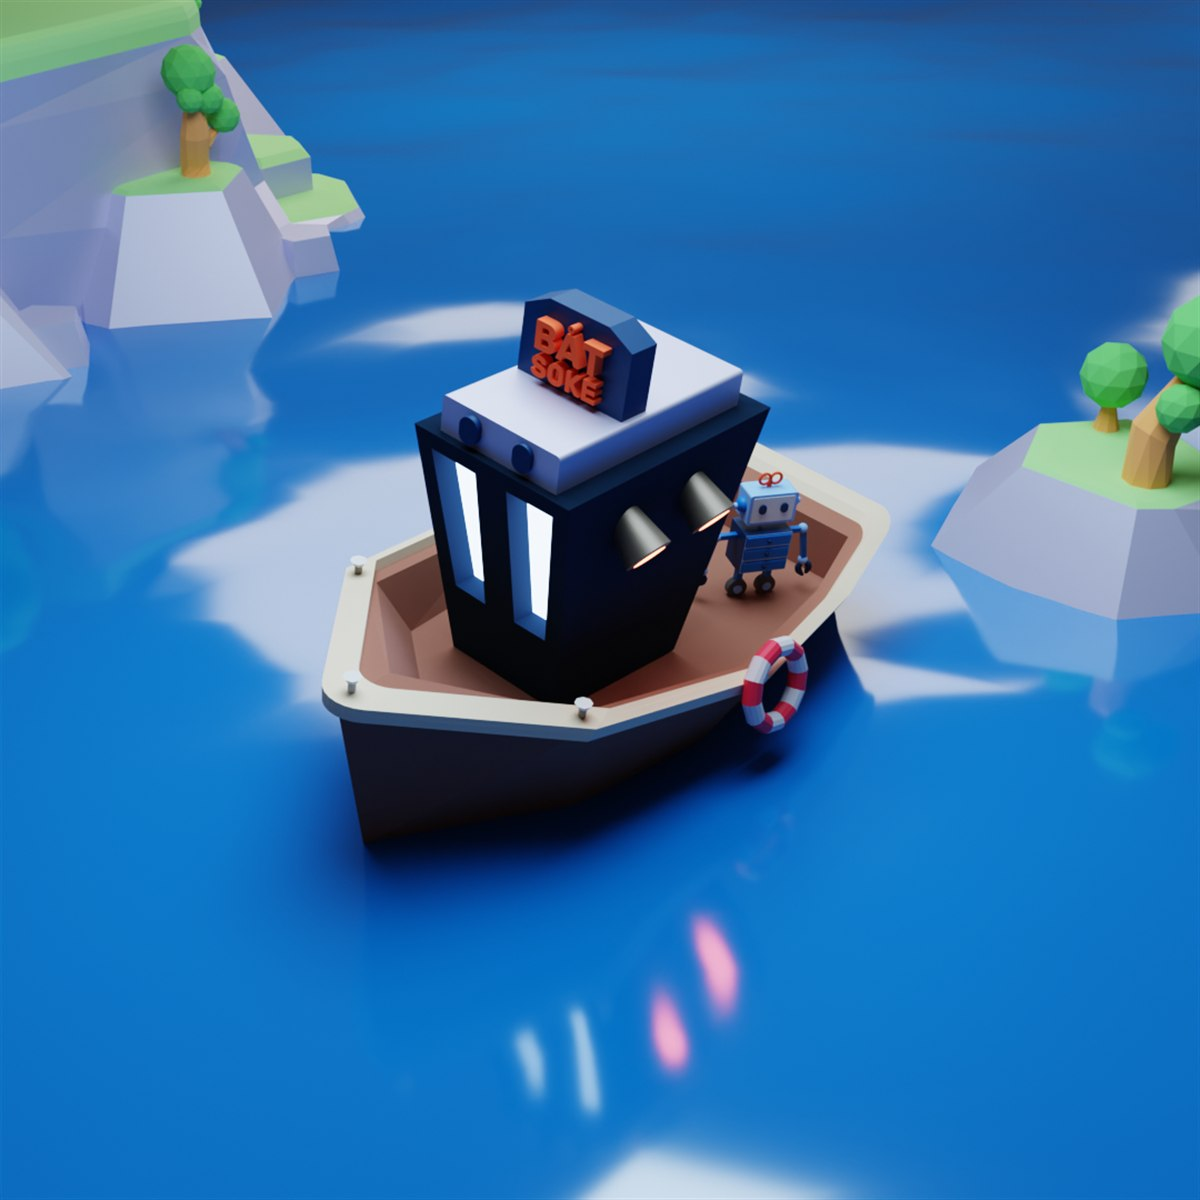
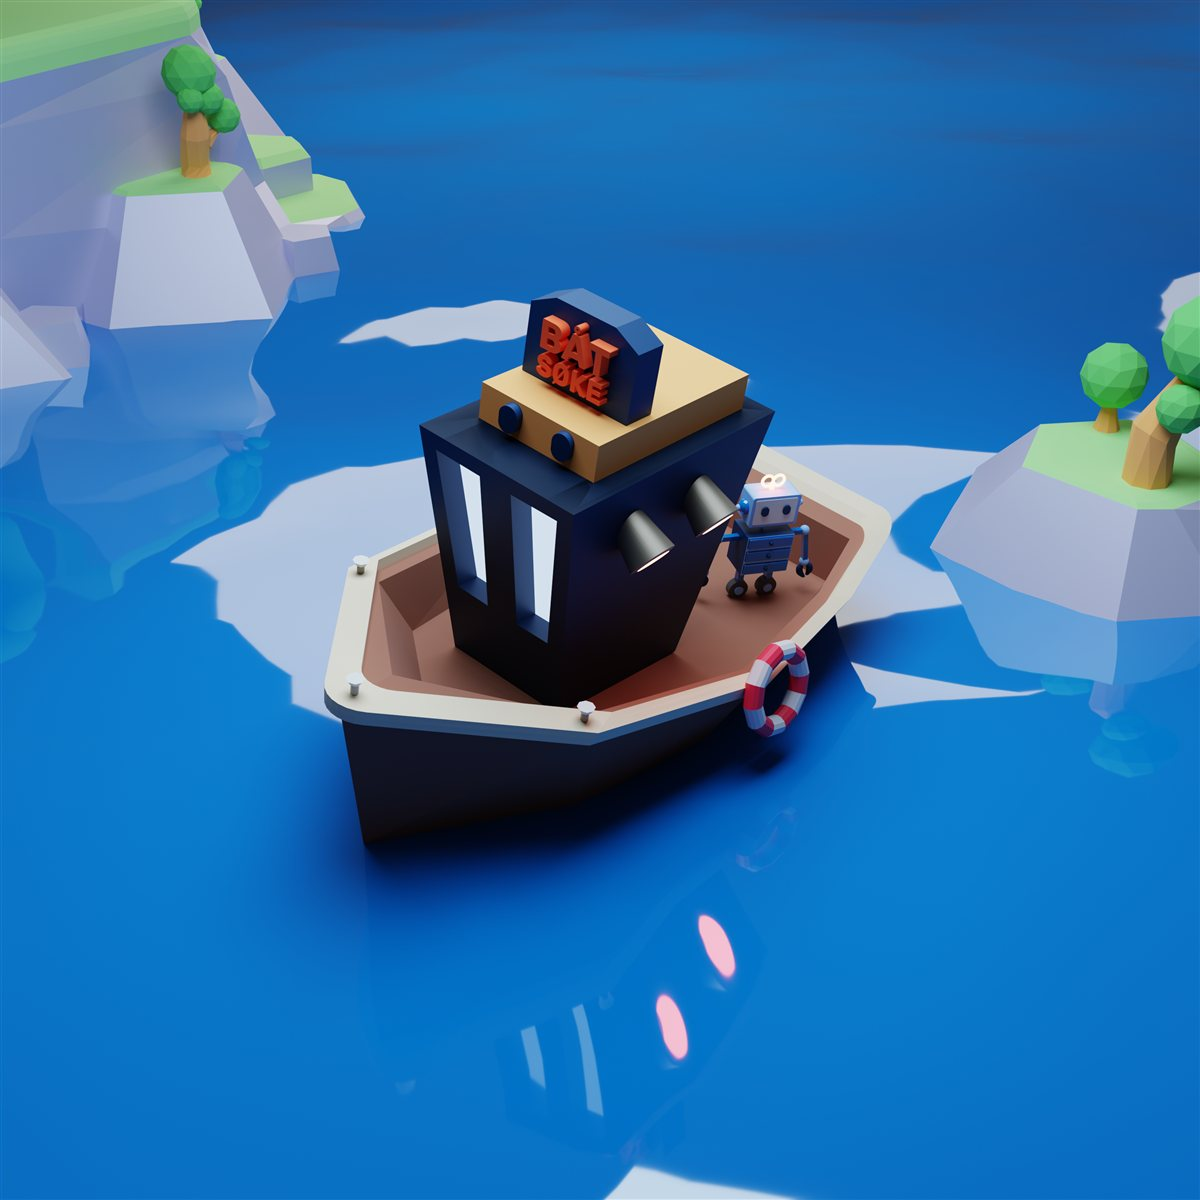
Boat Soke: sharper 2000px cover from the new 3000px render

diff --git a/index.html b/index.html
@@ -235,7 +235,7 @@
         <div class="grid sm:grid-cols-2 md:grid-cols-3 gap-8 md:gap-10">
           <a href="work-bat-soke" class="work-card group reveal">
             <div class="work-img-wrap relative rounded-2xl shadow-forest">
-              <img src="assets/bat-soke/bat-soke-cover.webp" alt="A low-poly 3D scene of a small boat on blue water, the 1881 search character standing on deck and a B&aring;t S&oslash;ke sign on the wheelhouse, with tree-topped islands behind" width="1080" height="1080" loading="lazy" decoding="async" class="w-full rounded-2xl" />
+              <img src="assets/bat-soke/bat-soke-cover.webp" alt="A low-poly 3D scene of a small boat on blue water, the 1881 search character standing on deck and a B&aring;t S&oslash;ke sign on the wheelhouse, with tree-topped islands behind" width="2000" height="2000" loading="lazy" decoding="async" class="w-full rounded-2xl" />
             </div>
             <div class="mt-5">
               <p class="eyebrow text-forest-deep/50">3D &middot; 2026</p>

diff --git a/work.html b/work.html
@@ -185,7 +185,7 @@
         <!-- mini 1 -->
         <a href="work-bat-soke" class="work-card group reveal">
           <div class="work-img-wrap relative rounded-2xl shadow-forest">
-            <img src="assets/bat-soke/bat-soke-cover.webp" alt="A low-poly 3D scene of a small boat on blue water, the 1881 search character standing on deck and a B&aring;t S&oslash;ke sign on the wheelhouse, with tree-topped islands behind" width="1080" height="1080" loading="lazy" decoding="async" class="w-full rounded-2xl" />
+            <img src="assets/bat-soke/bat-soke-cover.webp" alt="A low-poly 3D scene of a small boat on blue water, the 1881 search character standing on deck and a B&aring;t S&oslash;ke sign on the wheelhouse, with tree-topped islands behind" width="2000" height="2000" loading="lazy" decoding="async" class="w-full rounded-2xl" />
           </div>
           <div class="mt-5">
             <p class="eyebrow text-forest-deep/50">3D &middot; 2026</p>

diff --git a/work-bat-soke.html b/work-bat-soke.html
@@ -140,7 +140,7 @@
         </p>
       </div>
       <figure class="mt-10 md:mt-12 reveal">
-        <img src="assets/bat-soke/bat-soke-cover.webp" alt="A low-poly 3D scene of a small boat on blue water, the 1881 search character standing on deck and a B&aring;t S&oslash;ke sign on the wheelhouse, with tree-topped islands behind" width="1080" height="1080" loading="lazy" decoding="async" class="w-full rounded-2xl border border-forest-deep/15" />
+        <img src="assets/bat-soke/bat-soke-cover.webp" alt="A low-poly 3D scene of a small boat on blue water, the 1881 search character standing on deck and a B&aring;t S&oslash;ke sign on the wheelhouse, with tree-topped islands behind" width="2000" height="2000" loading="lazy" decoding="async" class="w-full rounded-2xl border border-forest-deep/15" />
         <figcaption class="eyebrow text-forest-deep/40 mt-3">The final frame</figcaption>
       </figure>
     </div>
